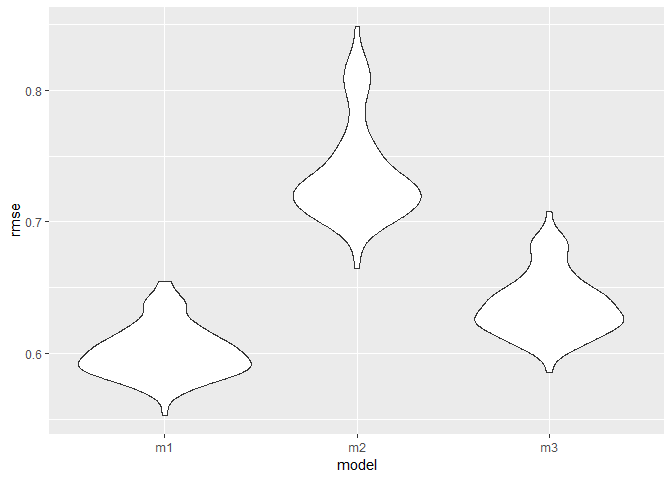
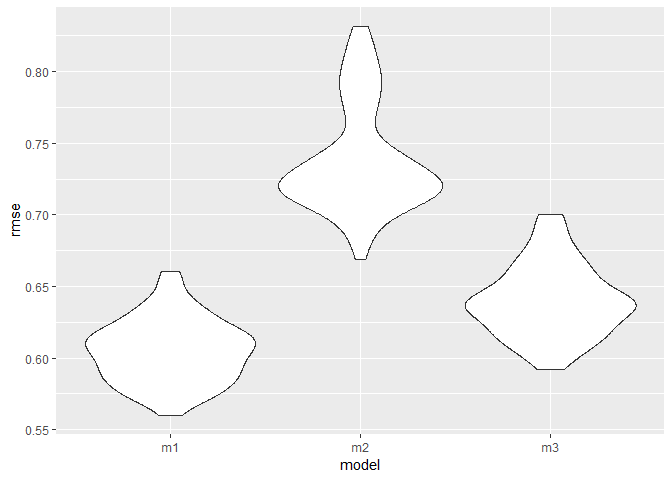
final version

diff --git a/p8105_hw6_ml4239.md b/p8105_hw6_ml4239.md
@@ -13,17 +13,22 @@ P.1
 ``` r
 homicide_data <- read_csv('./data/homicide-data.csv') 
 
-homicide_tidy<-homicide_data %>%  
+
+homicide_tidy<-homicide_data %>% 
   mutate(city_state = str_c(city, ",", state),
-         case_status = ifelse(disposition == "Closed without arrest" | disposition == "Open/No arrest", 0, 1), 
-         victim_race = ifelse(victim_race == "White", "White", "Nonwhite"), 
-         victim_race = factor(victim_race, levels = c("White", "Nonwhite")), #factor
-         victim_age = as.numeric(victim_age))%>% 
-  filter(!(city_state %in% c('Dallas,TX', 'Phoenix,AZ','Kansas City,MO',"Tulsa,AL"))) #omit cities
+         case_status = ifelse(disposition == "Closed without arrest" | disposition == "Open/No arrest", 0, 1)) %>%
+  filter(victim_race != "Unknown") %>% 
+   mutate(victim_race = ifelse(victim_race == "White", "White", "Nonwhite"),
+          victim_race = factor(victim_race, levels = c("White", "Nonwhite")),
+          victim_age = as.numeric(victim_age))%>% 
+  filter(!(city_state %in% c('Dallas,TX', 'Phoenix,AZ','Kansas City,MO',"Tulsa,AL"))) %>% 
+  na.omit(victim_age)
 ```
 
     ## Warning in evalq(as.numeric(victim_age), <environment>): NAs introduced by
     ## coercion
+
+Create a city\_state variable and a binary variable indicating the case status (if it is solved or not). factorized victim\_race variable and making sure victim\_age variables are all numeric.
 
 ### regression fpr the city of Baltimore, MD
 
@@ -60,7 +65,7 @@ Here we can see the estimate of the adjusted odds ratio for solving homicides co
 ### dataframe with estimated ORs and CIs for each city.
 
 ``` r
-cities_summary<-homicide_tidy %>% 
+cities_summary <-homicide_tidy %>% 
   group_by(city_state) %>% 
   nest() %>% 
   mutate(models = map(data, ~glm(case_status ~ victim_age + victim_sex + victim_race, data = .x, family = binomial())),
@@ -69,10 +74,66 @@ cities_summary<-homicide_tidy %>%
   unnest() %>% 
   filter(term == "victim_raceNonwhite") %>% 
   mutate(OR = exp(estimate),
+         log_OR = estimate,
          conf.low = exp(estimate - std.error*1.96),
          conf.high = exp(estimate + std.error*1.96)) %>% 
-  select(city_state,OR, conf.low, conf.high, p.value) 
+  select(city_state, log_OR, OR, conf.low, conf.high, p.value)
+
+cities_summary %>% 
+  knitr::kable()
 ```
+
+| city\_state       |     log\_OR|         OR|   conf.low|  conf.high|    p.value|
+|:------------------|-----------:|----------:|----------:|----------:|----------:|
+| Albuquerque,NM    |  -0.2702850|  0.7631620|  0.4601582|  1.2656869|  0.2950255|
+| Atlanta,GA        |  -0.2839530|  0.7528020|  0.4315063|  1.3133316|  0.3172864|
+| Baltimore,MD      |  -0.8195997|  0.4406080|  0.3129079|  0.6204234|  0.0000027|
+| Baton Rouge,LA    |  -0.4040228|  0.6676289|  0.3127439|  1.4252185|  0.2963820|
+| Birmingham,AL     |   0.0401607|  1.0409780|  0.6160137|  1.7591089|  0.8807377|
+| Boston,MA         |  -2.1553095|  0.1158673|  0.0477626|  0.2810826|  0.0000019|
+| Buffalo,NY        |  -0.9322715|  0.3936585|  0.2147486|  0.7216206|  0.0025682|
+| Charlotte,NC      |  -0.5842897|  0.5575017|  0.3207914|  0.9688794|  0.0382543|
+| Chicago,IL        |  -0.5761032|  0.5620844|  0.4311321|  0.7328123|  0.0000207|
+| Cincinnati,OH     |  -1.1445849|  0.3183560|  0.1839996|  0.5508195|  0.0000428|
+| Columbus,OH       |  -0.1538009|  0.8574427|  0.6351090|  1.1576092|  0.3152318|
+| Denver,CO         |  -0.5076856|  0.6018870|  0.3589787|  1.0091626|  0.0541782|
+| Detroit,MI        |  -0.4283278|  0.6515978|  0.4880433|  0.8699630|  0.0036762|
+| Durham,NC         |   0.0028136|  1.0028175|  0.4041085|  2.4885469|  0.9951589|
+| Fort Worth,TX     |  -0.1769334|  0.8378356|  0.5545077|  1.2659311|  0.4007906|
+| Fresno,CA         |  -0.7957386|  0.4512478|  0.2318934|  0.8780956|  0.0191431|
+| Houston,TX        |  -0.1306424|  0.8775316|  0.7019882|  1.0969723|  0.2512838|
+| Indianapolis,IN   |  -0.6840764|  0.5045560|  0.3817941|  0.6667908|  0.0000015|
+| Jacksonville,FL   |  -0.4182842|  0.6581751|  0.5023197|  0.8623880|  0.0024149|
+| Las Vegas,NV      |  -0.2603831|  0.7707562|  0.5978050|  0.9937441|  0.0446002|
+| Long Beach,CA     |  -0.2307939|  0.7939031|  0.3876546|  1.6258857|  0.5280169|
+| Los Angeles,CA    |  -0.4067023|  0.6658424|  0.4828459|  0.9181936|  0.0131181|
+| Louisville,KY     |  -0.9445671|  0.3888479|  0.2568463|  0.5886892|  0.0000080|
+| Memphis,TN        |  -0.2508184|  0.7781637|  0.5209350|  1.1624074|  0.2205777|
+| Miami,FL          |  -0.5503988|  0.5767198|  0.3759677|  0.8846656|  0.0116895|
+| Milwaukee,wI      |  -0.4582502|  0.6323892|  0.4033912|  0.9913854|  0.0457473|
+| Minneapolis,MN    |  -0.4374158|  0.6457029|  0.3447349|  1.2094287|  0.1718976|
+| Nashville,TN      |  -0.0883292|  0.9154595|  0.6638130|  1.2625034|  0.5901516|
+| New Orleans,LA    |  -0.7618302|  0.4668113|  0.2952950|  0.7379496|  0.0011118|
+| New York,NY       |  -0.7004734|  0.4963503|  0.2568046|  0.9593427|  0.0372096|
+| Oakland,CA        |  -1.5465668|  0.2129779|  0.1043603|  0.4346441|  0.0000214|
+| Oklahoma City,OK  |  -0.3838211|  0.6812533|  0.4780242|  0.9708841|  0.0337141|
+| Omaha,NE          |  -1.7714047|  0.1700939|  0.0941936|  0.3071540|  0.0000000|
+| Philadelphia,PA   |  -0.4373360|  0.6457544|  0.4876646|  0.8550934|  0.0022677|
+| Pittsburgh,PA     |  -1.2674074|  0.2815606|  0.1607457|  0.4931788|  0.0000093|
+| Richmond,VA       |  -0.8042697|  0.4474146|  0.1616764|  1.2381510|  0.1214623|
+| San Antonio,TX    |  -0.3668917|  0.6928847|  0.4636860|  1.0353755|  0.0733964|
+| Sacramento,CA     |  -0.2552940|  0.7746887|  0.4451765|  1.3481003|  0.3664082|
+| Savannah,GA       |  -0.5025401|  0.6049920|  0.2840923|  1.2883672|  0.1925656|
+| San Bernardino,CA |  -0.1276678|  0.8801457|  0.3928312|  1.9719832|  0.7564200|
+| San Diego,CA      |  -0.7515045|  0.4716564|  0.2896294|  0.7680843|  0.0025235|
+| San Francisco,CA  |  -0.7802724|  0.4582812|  0.2904504|  0.7230896|  0.0007982|
+| St. Louis,MO      |  -0.5488333|  0.5776234|  0.4062889|  0.8212106|  0.0022339|
+| Stockton,CA       |  -0.9657909|  0.3806820|  0.1989413|  0.7284499|  0.0035350|
+| Tampa,FL          |   0.1474076|  1.1588262|  0.5870394|  2.2875435|  0.6709560|
+| Tulsa,OK          |  -0.5183504|  0.5955021|  0.4080809|  0.8690009|  0.0071844|
+| Washington,DC     |  -0.6731847|  0.5100815|  0.2577041|  1.0096200|  0.0532959|
+
+Get estimated ORs and CIs for each of the city in hte data set and create a table.
 
 ### plot that shows the estimated ORs and CIs for each city.
 
@@ -277,4 +338,4 @@ cv %>%
   ggplot(aes(x = model, y = rmse)) + geom_violin()
 ```
 
-![](p8105_hw6_ml4239_files/figure-markdown_github/unnamed-chunk-11-1.png)
+![](p8105_hw6_ml4239_files/figure-markdown_github/unnamed-chunk-11-1.png) We can tell from the plot that m1 model (our model) has thee smallest rmse while the 'main effets only' model has the highest rmse.
